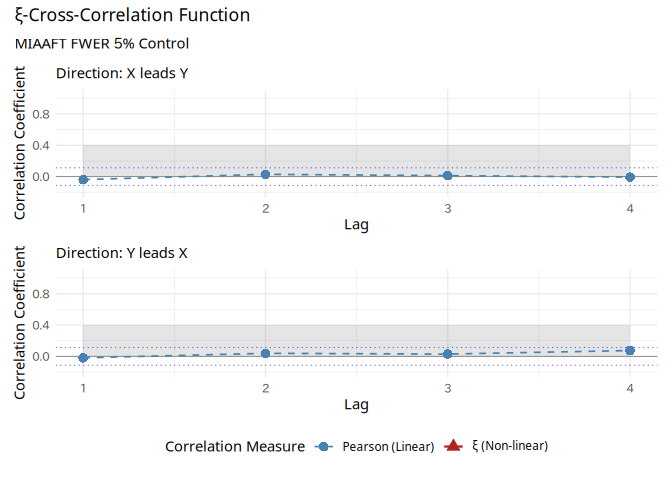
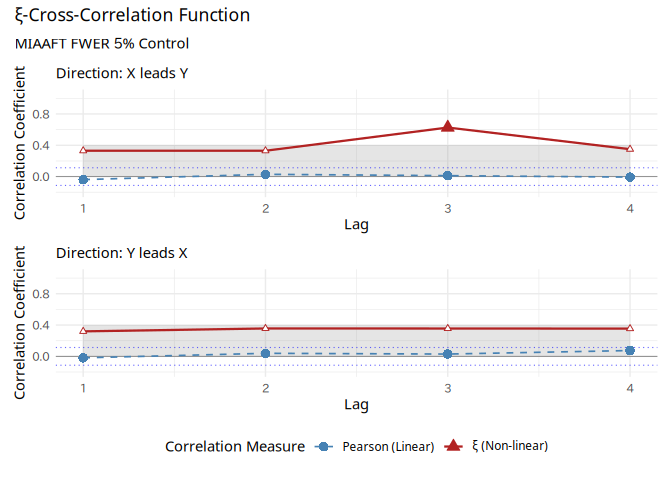
fix: simplify xi_matrix data extraction to match C++ output directly
* Remove unnecessary fallback loops and 3D array index calculations.
* Directly map C++ list elements (xi_original, var_lead, var_lag, lag) to the R data.frame.
* Resolve the 'differing number of rows' error and restore autoplot functionality.
* Ensure backward compatibility warnings for sig_level are preserved.

diff --git a/README.md b/README.md
@@ -170,10 +170,6 @@ res_matrix <- xi_matrix(df_network, max_lag = 4, n_surr = 799)
 
 # Plot the entire network of causal relationships
 autoplot(res_matrix)
-#> Warning: Removed 36 rows containing missing values or values outside the scale range
-#> (`geom_line()`).
-#> Warning: Removed 36 rows containing missing values or values outside the scale range
-#> (`geom_point()`).
 ```
 
 <img src="man/figures/README-xi_matrix_example-1.png" alt="" width="100%" />
@@ -189,14 +185,6 @@ baselines without re-running the surrogates.
 # Passing the original data allows calculation of the standard linear CCF for comparison
 ccf_A_C <- extract_xi_ccf(res_matrix, var_x = "A", var_y = "C", x_raw = df_network)
 autoplot(ccf_A_C)
-#> Warning: Removed 4 rows containing missing values or values outside the scale range
-#> (`geom_line()`).
-#> Warning: Removed 4 rows containing missing values or values outside the scale range
-#> (`geom_point()`).
-#> Warning: Removed 4 rows containing missing values or values outside the scale range
-#> (`geom_line()`).
-#> Warning: Removed 4 rows containing missing values or values outside the scale range
-#> (`geom_point()`).
 ```
 
 <img src="man/figures/README-extract_example-1.png" alt="" width="100%" />
